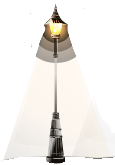
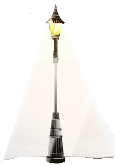
Fixed Z render order

Changed region(s): [[0.4957, 0.1212, 0.6783, 0.3939], [0.313, 0.1212, 0.4696, 0.3939]]

diff --git a/actor.h b/actor.h
@@ -1,5 +1,4 @@
 
-
 class Dog
 {
 	public:
@@ -519,8 +518,16 @@ class Actor
 	float hillHeight = 0;
 	ws::Vec2f target = {0,0};
 	ws::Vec2f wanderVec = {0,0};
+	ws::Vec2f mapSize = {4,4};
 	
 	float sightDist = 200;
+	int channel = -1;
+	
+	Actor()
+	{
+		channel = wav.getFreeChannel();
+		wav.channel = channel;
+	}
 };
 
 
@@ -530,6 +537,7 @@ class Candivore : public Actor
 	ws::Timer waitTimer;
 	float maxWaitTime = 2;
 	float fleeTimeElapsed = 0;
+	
 	
 	bool updateCandivore()
 	{
@@ -570,8 +578,41 @@ class Candivore : public Actor
 		velocity.x *= 0.9;
 		velocity.z *= 0.9;
 		
+		clampToMap(r);
 		
 		return true;
+	}
+	
+	void clampToMap(Render &r)
+	{
+		if(r.x < 0)
+		{
+			r.x = 0;
+			velocity.x = 0;
+			velocity.z = 0;
+			startWander();
+		}
+		if(r.y < 0)
+		{
+			r.y = 0;
+			velocity.x = 0;
+			velocity.z = 0;
+			startWander();
+		}		
+		if(r.x >= mapSize.x)
+		{
+			r.x = mapSize.x-1;
+			velocity.x = 0;
+			velocity.z = 0;
+			startWander();
+		}		
+		if(r.y >= mapSize.y)
+		{
+			r.y = mapSize.y-1;
+			velocity.x = 0;
+			velocity.z = 0;
+			startWander();
+		}		
 	}
 	
 	void startWander()
@@ -651,9 +692,11 @@ class Mello : public Candivore
 	}shifts;
 	
 	
-	void init()
+	void init(float mapWidth,float mapDepth)
 	{
 		startWander();
+		mapSize.x = mapWidth;
+		mapSize.y = mapDepth;
 		if(!updateCandivore())
 			return;
 		Render &r = renders[renderID];
@@ -661,13 +704,15 @@ class Mello : public Candivore
 		sprite.setTexture(melloTex);
 		currentShift = shifts.stand;
 		sprite.setTextureRect(ws::Shift(currentShift));
-		r.scale = {2,2};
+		sprite.setOrigin(sprite.getTextureRect().width/2,sprite.getTextureRect().height * 0.85);
+		r.scale = {1,1};
 	}
 	
 	void update(float hillHeight,ws::Vec2f target)
 	{
 		this->hillHeight =  hillHeight;
 		this->target = target;
+		
 		if(!updateCandivore())
 			return;
 		Render &r = renders[renderID];
@@ -699,6 +744,19 @@ class Mello : public Candivore
 			}
 			if(state == "flee")
 			{
+				static bool snd1 = false;
+				if(snd1)
+				{
+					snd1 = false;
+					wav.open("ASSETS//melloScared0.wav",channel);
+					wav.play();
+				}
+				else
+				{
+					snd1 = true;
+					wav.open("ASSETS//melloScared1.wav",channel);
+					wav.play();					
+				}
 				currentShift = shifts.panic;
 				currentShift.currentframe = 0;
 				currentShift.start = true;

diff --git a/main.cpp b/main.cpp
@@ -21,7 +21,7 @@ void loadTextures()
 	lampTex.setScaleMode(ws::Texture::ScaleMode::NearestNeighbor);	
 	mintKillerTex.loadFromFile("ASSETS//MintKiller.png");
 	mintKillerTex.setScaleMode(ws::Texture::ScaleMode::NearestNeighbor);	
-	melloTex.loadFromFile("ASSETS//UnMelloFellow.png");
+	melloTex.loadFromFile("ASSETS//UnMelloFellow-2.png");
 	melloTex.setScaleMode(ws::Texture::ScaleMode::NearestNeighbor);	
 	
 }
@@ -115,7 +115,7 @@ int main()
 		mellos.push_back(Mello());
 		mellos.back().renderID = renders.size();
 		renders.push_back(r);
-		mellos.back().init();
+		mellos.back().init(map.width,map.depth);
 	}
 	
 	
@@ -251,13 +251,11 @@ int main()
 		window.draw(backSprite);
 		
 		float floor = map.getHillHeight(camera.x,camera.z) - 50;
-		if(camera.y > floor)
-		{
-			player.velocity.y = 0;
-			camera.y = floor;
-		}
-		else
-			player.velocity.y += gravity;
+		
+		//incrementally reach that position for smooth movement.
+		camera.y += (floor - camera.y) * 0.6;
+
+
 		
 		renderIndices.clear();
 
@@ -274,8 +272,8 @@ int main()
 		double nearbyMs = nearbyTimer.getMilliSeconds();
 
 		renderIndices.clear();
-		for(int idx : nearby)
-		{
+		
+		auto addObject = [&](int idx){
 			Render& d = renders[idx];
 			float wx = d.x - camera.x;
 			float wz = d.z - camera.z;
@@ -285,17 +283,17 @@ int main()
 			{
 				d.depth = cz;
 				renderIndices.push_back(idx);
-			}
-		}
-		
-		renderIndices.push_back(snowman.renderID);
+			}			
+		};
+		for(int idx : nearby)
+			addObject(idx);
+		addObject(snowman.renderID);
 		for(auto& d : dogs)
-			renderIndices.push_back(d.renderID);
-
+			addObject(d.renderID);
 		for(auto& m : mintKillers)
-			renderIndices.push_back(m.renderID);
+			addObject(m.renderID);
 		for(auto& m : mellos)
-			renderIndices.push_back(m.renderID);
+			addObject(m.renderID);
 
 
 		ws::Timer sortTimer;

diff --git a/light.h b/light.h
@@ -19,7 +19,7 @@ std::vector<ws::Vec3f> lightColors =
 	{0.6, 0.3, 0.7},//Dusk / Twilight	Purple‑blue with pink remnants 9
 	{0.2, 0.2, 0.6}//Blue hour (after sunset)	Deep blue‑purple	 10
 };
-ws::Vec3f lightColor = lightColors[7];
+ws::Vec3f lightColor = lightColors[10];
 
 
 struct PointLight 

diff --git a/populate.h b/populate.h
@@ -83,7 +83,7 @@ void populate(std::string path)
 		r.spriteID = sprites.size();
 		ws::Sprite spr;
 		spr.setTexture(lampTex);
-		spr.setOrigin(lampTex.getSize().x/2,lampTex.getSize().y * 0.8);
+		spr.setOrigin(lampTex.getSize().x/2,lampTex.getSize().y * 0.9);
 		r.scale = {1.2,1.2};
 		sprites.push_back(spr);
 		renders.push_back(r);		